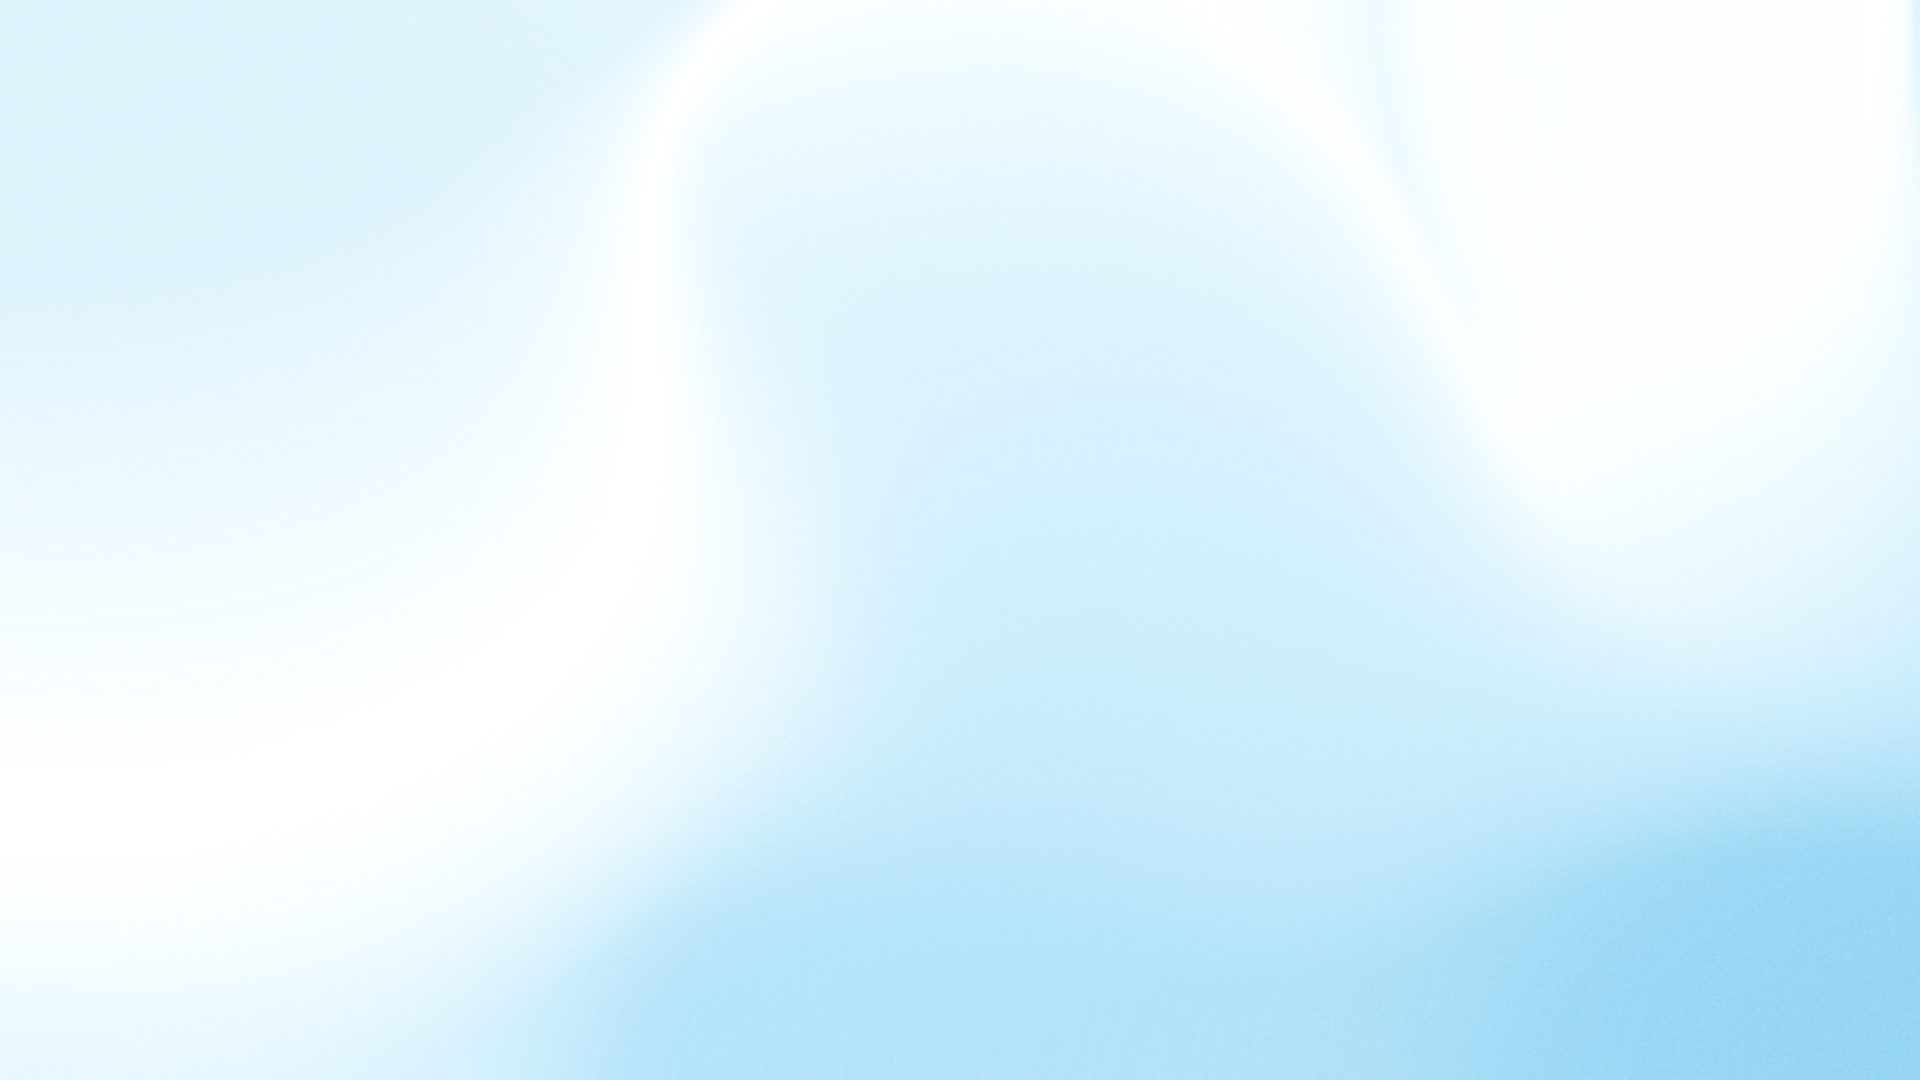
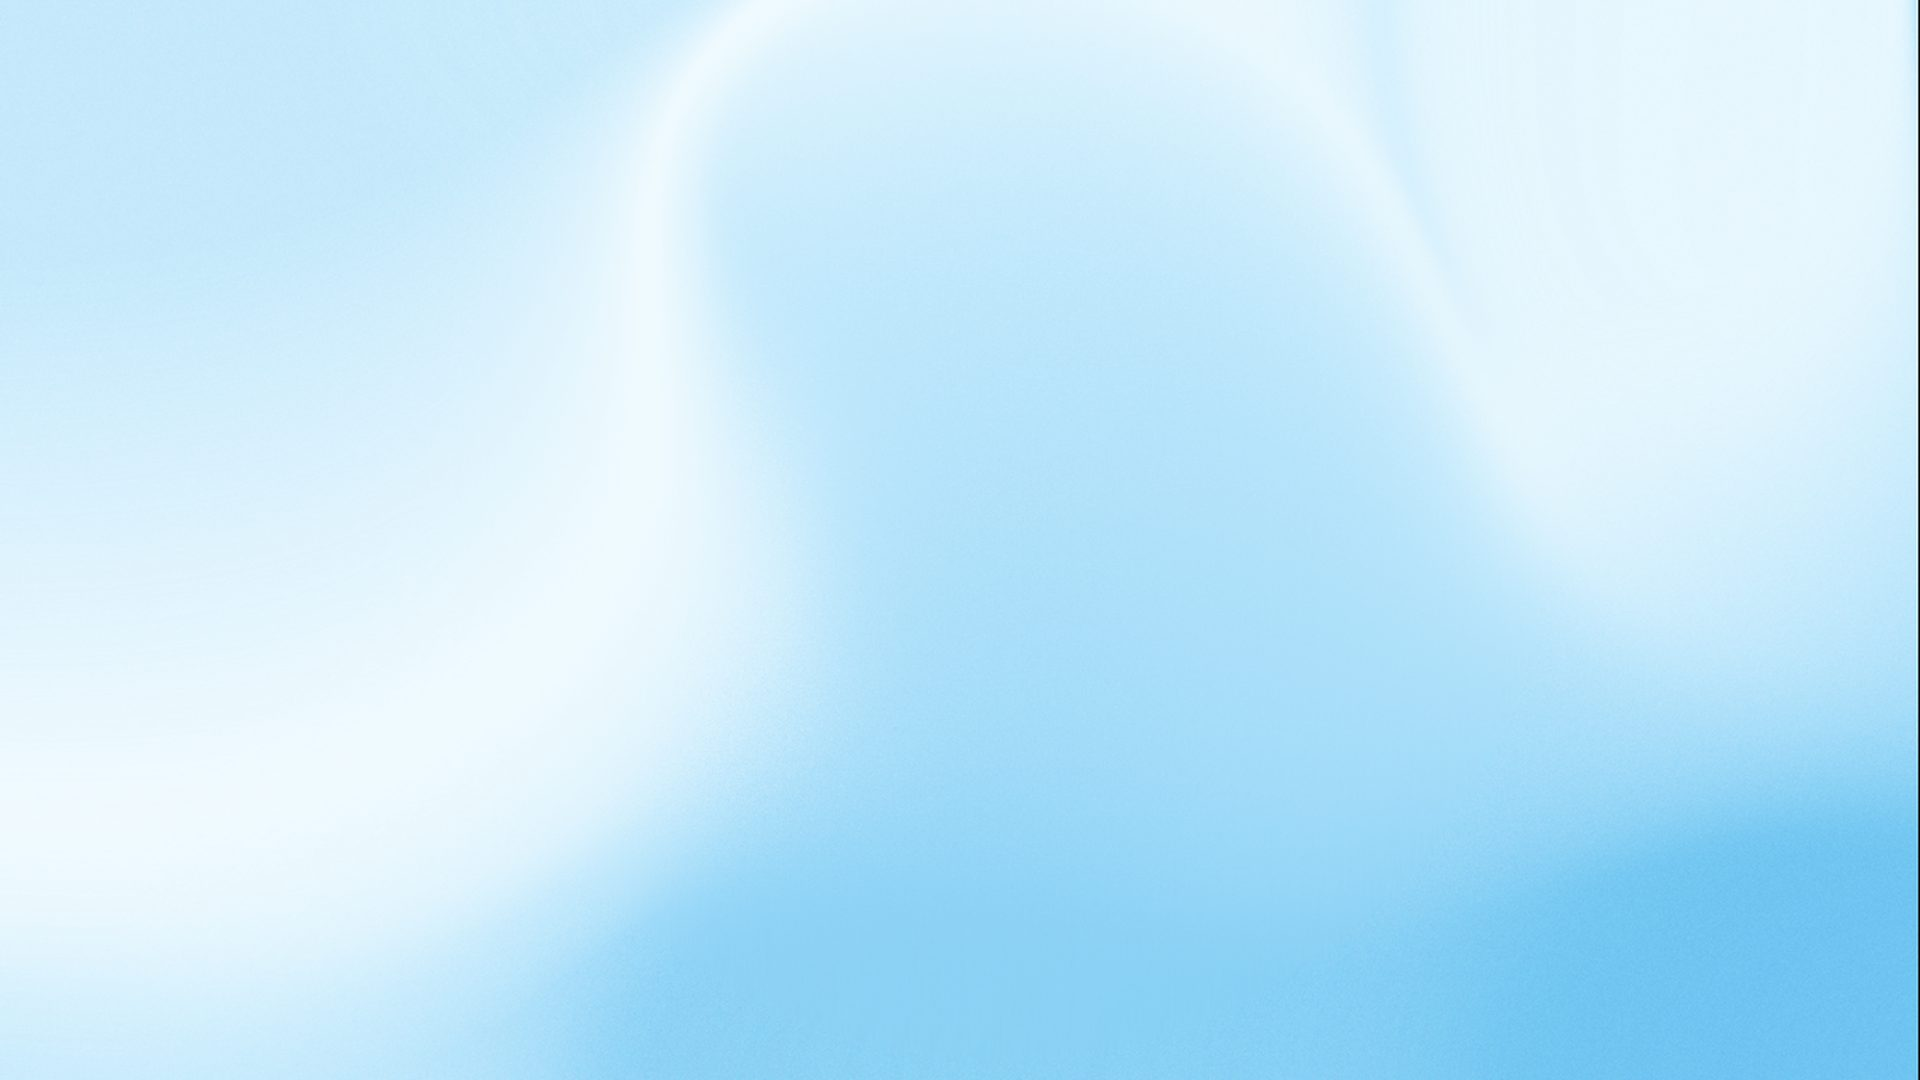
The cover's aura carries more UNICEF cyan
The first version was too pale to read as motion. The cyan band is wider
and the sphere a light cyan; the title stays legible; the still is
recaptured at full size.

diff --git a/CONTEXT.md b/CONTEXT.md
@@ -442,7 +442,8 @@ guard, all pure functions, none touching the user's words:
 - **The cover and the closing slide carry an aura**: the Unicorn Studio scene Mario chose (27 Sep
   2026), running on its own runtime, recoloured and vendored in `public/aura` (runtime 155 KB,
   `cover.json`, `closing.json`, excluded from lint; `includeLogo` is off, no network). Cover: white
-  with UNICEF cyan waves, time halved; closing: the cyan surface with waves a touch lighter (the
+  with UNICEF cyan waves (a wide cyan band and a light-cyan sphere: the first, paler version
+  barely showed, Mario, 27 Sep 2026), time halved; closing: the cyan surface with waves a touch lighter (the
   overlay circle is mid grey: a white overlay on cyan turned it turquoise). Slides render a still
   of each scene (`/aura/<kind>.jpg`, `aura()` in `layouts/shared.ts`), which is what thumbnails,
   PDF and PPTX show. `mountAura` (`lib/slides/aura-live.ts`) mounts the live scene over the still
